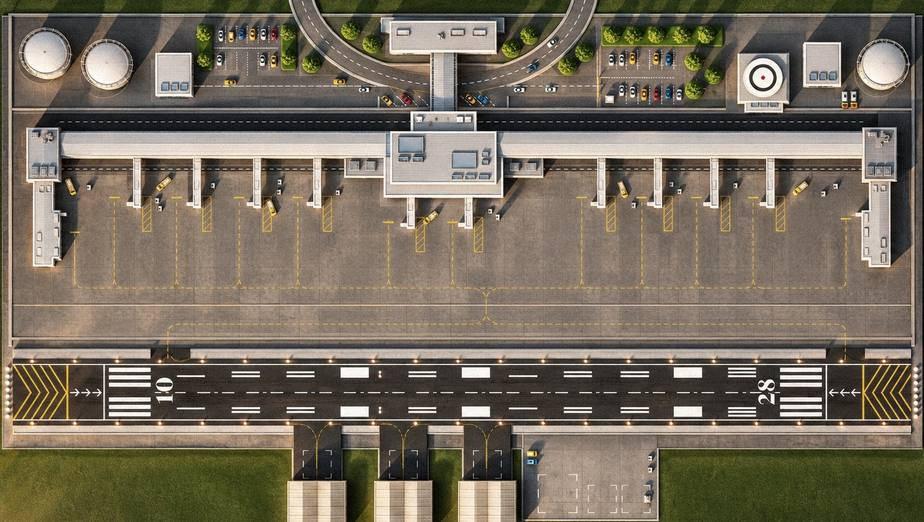
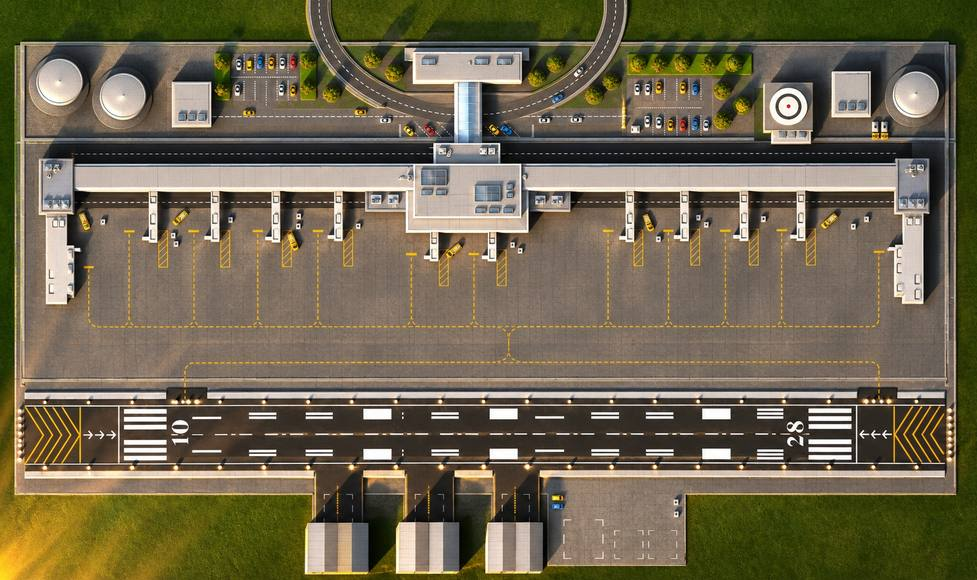
Galeão com as artes refeitas, sem nenhuma alteração no desenho
Claude-Session: https://claude.ai/code/session_01Y22HSWpi8bJjkUpXL6Y8uJ

diff --git a/lite.html b/lite.html
@@ -31,7 +31,7 @@ button:focus-visible{outline:2px solid var(--y);outline-offset:2px}
 .zreset{position:absolute;left:10px;top:10px;z-index:12;display:flex;align-items:center;gap:6px;background:var(--k);border:1px solid var(--y);color:var(--y);font-weight:800;font-size:12px;border-radius:18px;padding:6px 12px;min-height:36px}
 .zreset[hidden]{display:none}
 .zhint{position:absolute;left:50%;top:45%;transform:translate(-50%,-50%);font-weight:700;z-index:12;background:rgba(0,0,0,.7);color:var(--g);font-size:11px;border-radius:12px;padding:4px 10px;pointer-events:none;transition:opacity .6s}
-.map{position:absolute;left:0;top:0;transform-origin:0 0;background:url(lite_map.jpg?v=20261124f) center/100% 100% no-repeat;overflow:hidden;will-change:transform}
+.map{position:absolute;left:0;top:0;transform-origin:0 0;background:url(lite_map.jpg?v=20261124g) center/100% 100% no-repeat;overflow:hidden;will-change:transform}
 
 /* aviões */
 .pl{position:absolute;transform:translate(-50%,-50%);pointer-events:none;will-change:left,top}
@@ -184,23 +184,23 @@ body.rot .map{background:none}
 body.rot .sky{display:none}
 body.rot .sign,body.rot .rwy{transform:translate(-50%,-50%) rotate(90deg)}
 body.land .mobileBar{top:50%;transform:translateY(-50%)}
-#bgH{position:absolute;left:0;top:0;transform-origin:0 0;background:url(lite_maph.jpg?v=20261124f) center/100% 100% no-repeat;display:none;pointer-events:none}
+#bgH{position:absolute;left:0;top:0;transform-origin:0 0;background:url(lite_maph.jpg?v=20261124g) center/100% 100% no-repeat;display:none;pointer-events:none}
 #bgH i{position:absolute;top:0;right:0;bottom:0;left:0;opacity:0;background:center/100% 100% no-repeat}
-#skyTh{background-image:url(lite_maph.jpg?v=20261124f)!important}#skyNh{background-image:url(lite_maph_noite.jpg?v=20261124f)!important}
+#skyTh{background-image:url(lite_maph.jpg?v=20261124g)!important}#skyNh{background-image:url(lite_maph_noite.jpg?v=20261124g)!important}
 body.rot #bgH{display:block}
-body.l2 #bgH{background-image:url(maph2_dia.jpg?v=20261124f)}body.l2 #skyTh{background-image:url(maph2_tarde.jpg?v=20261124f)!important}body.l2 #skyNh{background-image:url(maph2_noite.jpg?v=20261124f)!important}
-body.l3 #bgH{background-image:url(maph3_dia.jpg?v=20261124f)}body.l3 #skyTh{background-image:url(maph3_tarde.jpg?v=20261124f)!important}body.l3 #skyNh{background-image:url(maph3_noite.jpg?v=20261124f)!important}
-body.rot.l2 .stage::before{background-image:url(maph2_dia.jpg?v=20261124f)}body.rot.l3 .stage::before{background-image:url(maph3_dia.jpg?v=20261124f)}
+body.l2 #bgH{background-image:url(maph2_dia.jpg?v=20261124g)}body.l2 #skyTh{background-image:url(maph2_tarde.jpg?v=20261124g)!important}body.l2 #skyNh{background-image:url(maph2_noite.jpg?v=20261124g)!important}
+body.l3 #bgH{background-image:url(maph3_dia.jpg?v=20261124g)}body.l3 #skyTh{background-image:url(maph3_tarde.jpg?v=20261124g)!important}body.l3 #skyNh{background-image:url(maph3_noite.jpg?v=20261124g)!important}
+body.rot.l2 .stage::before{background-image:url(maph2_dia.jpg?v=20261124g)}body.rot.l3 .stage::before{background-image:url(maph3_dia.jpg?v=20261124g)}
 body.land .rail{top:84px}
 
 @media(max-height:520px){body.land .mobileBar{gap:4px}body.land .mobileBar .tab,body.land .mobileBar .mb{width:40px;height:40px;border-radius:9px}body.land .mobileBar .tab .ico,body.land .mobileBar .mb .ico{width:24px;height:24px}body.land .mobileBar .mb.clockb .clock{font-size:11px}body.land .mobileBar .mb.clockb small{display:none}body.land .rail{top:70px}}
 
 .sky{position:absolute;top:0;right:0;bottom:0;left:0;background:center/100% 100% no-repeat;opacity:0;pointer-events:none}
-#skyT{background-image:url(lite_map.jpg?v=20261124f)}#skyN{background-image:url(lite_map_noite.jpg?v=20261124f)}
-body.l2 .map{background-image:url(lite_map2.jpg?v=20261124f)}body.l2 #skyT{background-image:url(lite_map2.jpg?v=20261124f)}body.l2 #skyN{background-image:url(lite_map2_noite.jpg?v=20261124f)}
-body.l2 .stage::before{background-image:url(lite_map2.jpg?v=20261124f)}
-body.l3 .map{background-image:url(lite_map3.jpg?v=20261124f)}body.l3 #skyT{background-image:url(lite_map3.jpg?v=20261124f)}body.l3 #skyN{background-image:url(lite_map3_noite.jpg?v=20261124f)}
-body.l3 .stage::before{background-image:url(lite_map3.jpg?v=20261124f)}body.l3 #glow{display:none}
+#skyT{background-image:url(lite_map.jpg?v=20261124g)}#skyN{background-image:url(lite_map_noite.jpg?v=20261124g)}
+body.l2 .map{background-image:url(lite_map2.jpg?v=20261124g)}body.l2 #skyT{background-image:url(lite_map2.jpg?v=20261124g)}body.l2 #skyN{background-image:url(lite_map2_noite.jpg?v=20261124g)}
+body.l2 .stage::before{background-image:url(lite_map2.jpg?v=20261124g)}
+body.l3 .map{background-image:url(lite_map3.jpg?v=20261124g)}body.l3 #skyT{background-image:url(lite_map3.jpg?v=20261124g)}body.l3 #skyN{background-image:url(lite_map3_noite.jpg?v=20261124g)}
+body.l3 .stage::before{background-image:url(lite_map3.jpg?v=20261124g)}body.l3 #glow{display:none}
 .dl.apt .dl-r{font-size:13px;color:#bbb}.dl-go{margin-top:8px}
 #glow{position:absolute;top:0;right:0;bottom:0;left:0;background:url(glow1.png) center/100% 100% no-repeat;opacity:var(--nt,.2);pointer-events:none;mix-blend-mode:screen;z-index:1}
 body.l2 #glow{background-image:url(glow2.png)}#glow{display:none!important}body.rot #glow{display:none}
@@ -523,8 +523,8 @@ body.neo .aq-t:empty{background:#1d1e21;box-shadow:inset 3px 3px 6px rgba(0,0,0,
   .toast{position:fixed;top:auto;bottom:18px;max-width:calc(100% - 150px);left:calc(50% - 30px)}
 }
 @media(prefers-reduced-motion:reduce){.sign.ok .plate{animation:none!important}}
-.stage::before{content:"";position:absolute;top:-40px;right:-40px;bottom:-40px;left:-40px;background:url(lite_map.jpg?v=20261124f) center/cover no-repeat;filter:blur(22px) brightness(.75)}
-body.rot .stage::before{background-image:url(lite_maph.jpg?v=20261124f)}
+.stage::before{content:"";position:absolute;top:-40px;right:-40px;bottom:-40px;left:-40px;background:url(lite_map.jpg?v=20261124g) center/cover no-repeat;filter:blur(22px) brightness(.75)}
+body.rot .stage::before{background-image:url(lite_maph.jpg?v=20261124g)}
 /* capa: compatível com Safari antigo (sem gap em flex, altura explícita) */
 .cover{height:100vh;height:100dvh;grid-template-rows:auto minmax(0,1fr) auto}
 .signs>*+*{margin-top:8px}.sgn>*+*{margin-left:12px}.cv-act>*+*{margin-top:8px}
@@ -889,7 +889,7 @@ if(!window.PointerEvent){(function(){
 })()}
 </script>
 <script>
-var APPV='1795558043';
+var APPV='1795558589';
 (function(){function chk(){try{fetch('version.txt?t='+Date.now(),{cache:'no-store'}).then(function(r){return r.ok?r.text():''}).then(function(v){v=(v||'').trim();if(v&&v!==APPV){var k='departure_reload_'+v;if(!sessionStorage.getItem(k)){sessionStorage.setItem(k,'1');location.replace(location.pathname+'?v='+v)}}}).catch(function(){})}catch(e){}}
 chk();document.addEventListener('visibilitychange',function(){if(!document.hidden)chk()});})();
 </script>
@@ -1009,9 +1009,9 @@ var TH={"10":60,"28":1590};
 // layouts: 1 = Galeão original (1 pista), 2 = expansão (2 pistas, Terminal 1 e 2)
 var CN2=[224,584,1197,1595,1920];
 var LAYS={
- 1:{id:1,W:870,H:1540,ps:1.25,cover:1,G:[{id:'A',rx:217,twy:330,lane:385,sg:1,conn:[265,805,1410],entry:null,th:{"10":170,"28":1377},nm:{"10":"10","28":"28"},lt:[173,10,10],reil:[163,271],lbx:115,ap:{"10":[4,14],"28":[1524,1534]},edge:[171,263]}],
+ 1:{id:1,W:966,H:1628,ps:1.25,cover:1,G:[{id:'A',rx:243,twy:357,lane:420,sg:1,conn:[307,848,1460],entry:null,th:{"10":200,"28":1428},nm:{"10":"10","28":"28"},lt:[198,10,10],reil:[186,300],lbx:120,ap:{"10":[6,18],"28":[1600,1612]},edge:[195,290]}],
    labels:[],
-   mk:()=>[[229,5],[330,5],[430,5],[530,5],[686,6],[782,6],[1004,5],[1098,5],[1192,5],[1286,5]].map(([y,m],i)=>({n:i+1,x:i===4||i===5?488:523,y,max:m,bd:1,g:'A',sx:635,sy:y}))},
+   mk:()=>[[255,5],[358,5],[460,5],[564,5],[725,6],[822,6],[1049,5],[1140,5],[1239,5],[1334,5]].map(([y,m],i)=>({n:i+1,x:i===4||i===5?530:563,y,max:m,bd:1,g:'A',sx:672,sy:y}))},
  2:{id:2,W:941,H:1672,ps:1.35,G:[
    {id:'A',rx:84,twy:355,lane:397,sg:1,conn:[255,256,1399,1400],entry:null,th:{"10":168,"28":1489},nm:{"10":"10L","28":"28R"},lt:[58,6.5,9],reil:[50,118],lbx:30,ap:{"10":[100,117,134,151],"28":[1505,1520,1535,1550,1565]},edge:[57,111]},
    {id:'B',rx:266,twy:355,lane:397,sg:1,conn:[240,480,838,1248,1500],entry:null,th:{"10":93,"28":1489},nm:{"10":"10R","28":"28L"},lt:[234,8,9],reil:[226,306],lbx:325,ap:{"10":[25,42,59,76],"28":[1505,1520,1535,1550,1565]},edge:[233,299]}],
@@ -1219,7 +1219,7 @@ var DIFFS={
 var DIFF="normal",camp={day:1,stars:0,rep:70,money:0},storms=[],dayOver=false;
 var D=()=>DIFFS[DIFF];
 var START_MONEY={facil:400000,normal:250000,dificil:150000};
-var newCamp=()=>({lay1v:4,day:1,stars:0,rep:70,money:START_MONEY[DIFF]||250000,deals:[],crews:DIFF==='facil'?undefined:{fuel:2,cat:2,clean:2}});
+var newCamp=()=>({lay1v:5,day:1,stars:0,rep:70,money:START_MONEY[DIFF]||250000,deals:[],crews:DIFF==='facil'?undefined:{fuel:2,cat:2,clean:2}});
 var flights,now,speed=10,tab="arr",sel=null,assignFor=null,runwayFree,score,lastWind=-1;
 var $=id=>document.getElementById(id);
 var map=$('map'),fixed=$('fixed'),planesEl=$('planes'),board=$('board'),detail=$('detail'),side=$('side'),cards=$('cards');
@@ -2777,7 +2777,7 @@ function loadGame(d){
   ROT=d.ROT;flights=d.flights;now=d.now;buildLines();runwayFree=typeof d.runwayFree==='object'&&d.runwayFree?d.runwayFree:{A:0,B:0};score=d.score;
   setLayout(camp.lay||1);STANDS.forEach((x,i)=>x.res=d.stands[i]==null?null:d.stands[i]);
   if(camp.lay===2&&camp.layv!==2){camp.layv=2;migrateLay();runwayFree={A:0,B:0}}
-  if((camp.lay||1)===1&&camp.lay1v!==4){camp.lay1v=4;migrateLay();runwayFree={A:0,B:0}}
+  if((camp.lay||1)===1&&camp.lay1v!==5){camp.lay1v=5;migrateLay();runwayFree={A:0,B:0}}
   flights.forEach(f=>{if(f.svs)f.svs.forEach(v=>{if(v.q==null)v.q=true})});
   speed=nz(d.speed,10);if(speed)rescalePaths(pathK(speed));document.querySelectorAll('#speed button[data-s]').forEach(x=>x.classList.toggle('on',+x.dataset.s===speed));
   $('spdLbl').textContent=speed?speed+'×':'pausa';

diff --git a/index.html b/index.html
@@ -31,7 +31,7 @@ button:focus-visible{outline:2px solid var(--y);outline-offset:2px}
 .zreset{position:absolute;left:10px;top:10px;z-index:12;display:flex;align-items:center;gap:6px;background:var(--k);border:1px solid var(--y);color:var(--y);font-weight:800;font-size:12px;border-radius:18px;padding:6px 12px;min-height:36px}
 .zreset[hidden]{display:none}
 .zhint{position:absolute;left:50%;top:45%;transform:translate(-50%,-50%);font-weight:700;z-index:12;background:rgba(0,0,0,.7);color:var(--g);font-size:11px;border-radius:12px;padding:4px 10px;pointer-events:none;transition:opacity .6s}
-.map{position:absolute;left:0;top:0;transform-origin:0 0;background:url(map.jpg?v=20261124f) center/100% 100% no-repeat;overflow:hidden;will-change:transform}
+.map{position:absolute;left:0;top:0;transform-origin:0 0;background:url(map.jpg?v=20261124g) center/100% 100% no-repeat;overflow:hidden;will-change:transform}
 
 /* aviões */
 .pl{position:absolute;transform:translate(-50%,-50%);pointer-events:none;will-change:left,top}
@@ -184,23 +184,23 @@ body.rot .map{background:none}
 body.rot .sky{display:none}
 body.rot .sign,body.rot .rwy{transform:translate(-50%,-50%) rotate(90deg)}
 body.land .mobileBar{top:50%;transform:translateY(-50%)}
-#bgH{position:absolute;left:0;top:0;transform-origin:0 0;background:url(maph_dia.jpg?v=20261124f) center/100% 100% no-repeat;display:none;pointer-events:none}
+#bgH{position:absolute;left:0;top:0;transform-origin:0 0;background:url(maph_dia.jpg?v=20261124g) center/100% 100% no-repeat;display:none;pointer-events:none}
 #bgH i{position:absolute;top:0;right:0;bottom:0;left:0;opacity:0;background:center/100% 100% no-repeat}
-#skyTh{background-image:url(maph_tarde.jpg?v=20261124f)!important}#skyNh{background-image:url(maph_noite.jpg?v=20261124f)!important}
+#skyTh{background-image:url(maph_tarde.jpg?v=20261124g)!important}#skyNh{background-image:url(maph_noite.jpg?v=20261124g)!important}
 body.rot #bgH{display:block}
-body.l2 #bgH{background-image:url(maph2_dia.jpg?v=20261124f)}body.l2 #skyTh{background-image:url(maph2_tarde.jpg?v=20261124f)!important}body.l2 #skyNh{background-image:url(maph2_noite.jpg?v=20261124f)!important}
-body.l3 #bgH{background-image:url(maph3_dia.jpg?v=20261124f)}body.l3 #skyTh{background-image:url(maph3_tarde.jpg?v=20261124f)!important}body.l3 #skyNh{background-image:url(maph3_noite.jpg?v=20261124f)!important}
-body.rot.l2 .stage::before{background-image:url(maph2_dia.jpg?v=20261124f)}body.rot.l3 .stage::before{background-image:url(maph3_dia.jpg?v=20261124f)}
+body.l2 #bgH{background-image:url(maph2_dia.jpg?v=20261124g)}body.l2 #skyTh{background-image:url(maph2_tarde.jpg?v=20261124g)!important}body.l2 #skyNh{background-image:url(maph2_noite.jpg?v=20261124g)!important}
+body.l3 #bgH{background-image:url(maph3_dia.jpg?v=20261124g)}body.l3 #skyTh{background-image:url(maph3_tarde.jpg?v=20261124g)!important}body.l3 #skyNh{background-image:url(maph3_noite.jpg?v=20261124g)!important}
+body.rot.l2 .stage::before{background-image:url(maph2_dia.jpg?v=20261124g)}body.rot.l3 .stage::before{background-image:url(maph3_dia.jpg?v=20261124g)}
 body.land .rail{top:84px}
 
 @media(max-height:520px){body.land .mobileBar{gap:4px}body.land .mobileBar .tab,body.land .mobileBar .mb{width:40px;height:40px;border-radius:9px}body.land .mobileBar .tab .ico,body.land .mobileBar .mb .ico{width:24px;height:24px}body.land .mobileBar .mb.clockb .clock{font-size:11px}body.land .mobileBar .mb.clockb small{display:none}body.land .rail{top:70px}}
 
 .sky{position:absolute;top:0;right:0;bottom:0;left:0;background:center/100% 100% no-repeat;opacity:0;pointer-events:none}
-#skyT{background-image:url(map_tarde.jpg?v=20261124f)}#skyN{background-image:url(map_noite.jpg?v=20261124f)}
-body.l2 .map{background-image:url(map2_dia.jpg?v=20261124f)}body.l2 #skyT{background-image:url(map2_tarde.jpg?v=20261124f)}body.l2 #skyN{background-image:url(map2_noite.jpg?v=20261124f)}
-body.l2 .stage::before{background-image:url(map2_dia.jpg?v=20261124f)}
-body.l3 .map{background-image:url(map3_dia.jpg?v=20261124f)}body.l3 #skyT{background-image:url(map3_tarde.jpg?v=20261124f)}body.l3 #skyN{background-image:url(map3_noite.jpg?v=20261124f)}
-body.l3 .stage::before{background-image:url(map3_dia.jpg?v=20261124f)}body.l3 #glow{display:none}
+#skyT{background-image:url(map_tarde.jpg?v=20261124g)}#skyN{background-image:url(map_noite.jpg?v=20261124g)}
+body.l2 .map{background-image:url(map2_dia.jpg?v=20261124g)}body.l2 #skyT{background-image:url(map2_tarde.jpg?v=20261124g)}body.l2 #skyN{background-image:url(map2_noite.jpg?v=20261124g)}
+body.l2 .stage::before{background-image:url(map2_dia.jpg?v=20261124g)}
+body.l3 .map{background-image:url(map3_dia.jpg?v=20261124g)}body.l3 #skyT{background-image:url(map3_tarde.jpg?v=20261124g)}body.l3 #skyN{background-image:url(map3_noite.jpg?v=20261124g)}
+body.l3 .stage::before{background-image:url(map3_dia.jpg?v=20261124g)}body.l3 #glow{display:none}
 .dl.apt .dl-r{font-size:13px;color:#bbb}.dl-go{margin-top:8px}
 #glow{position:absolute;top:0;right:0;bottom:0;left:0;background:url(glow1.png) center/100% 100% no-repeat;opacity:var(--nt,.2);pointer-events:none;mix-blend-mode:screen;z-index:1}
 body.l2 #glow{background-image:url(glow2.png)}#glow{display:none!important}body.rot #glow{display:none}
@@ -523,8 +523,8 @@ body.neo .aq-t:empty{background:#1d1e21;box-shadow:inset 3px 3px 6px rgba(0,0,0,
   .toast{position:fixed;top:auto;bottom:18px;max-width:calc(100% - 150px);left:calc(50% - 30px)}
 }
 @media(prefers-reduced-motion:reduce){.sign.ok .plate{animation:none!important}}
-.stage::before{content:"";position:absolute;top:-40px;right:-40px;bottom:-40px;left:-40px;background:url(map.jpg?v=20261124f) center/cover no-repeat;filter:blur(22px) brightness(.75)}
-body.rot .stage::before{background-image:url(maph_dia.jpg?v=20261124f)}
+.stage::before{content:"";position:absolute;top:-40px;right:-40px;bottom:-40px;left:-40px;background:url(map.jpg?v=20261124g) center/cover no-repeat;filter:blur(22px) brightness(.75)}
+body.rot .stage::before{background-image:url(maph_dia.jpg?v=20261124g)}
 /* capa: compatível com Safari antigo (sem gap em flex, altura explícita) */
 .cover{height:100vh;height:100dvh;grid-template-rows:auto minmax(0,1fr) auto}
 .signs>*+*{margin-top:8px}.sgn>*+*{margin-left:12px}.cv-act>*+*{margin-top:8px}
@@ -880,7 +880,7 @@ if(!window.PointerEvent){(function(){
 })()}
 </script>
 <script>
-var APPV='1795558043';
+var APPV='1795558589';
 (function(){function chk(){try{fetch('version.txt?t='+Date.now(),{cache:'no-store'}).then(function(r){return r.ok?r.text():''}).then(function(v){v=(v||'').trim();if(v&&v!==APPV){var k='departure_reload_'+v;if(!sessionStorage.getItem(k)){sessionStorage.setItem(k,'1');location.replace(location.pathname+'?v='+v)}}}).catch(function(){})}catch(e){}}
 chk();document.addEventListener('visibilitychange',function(){if(!document.hidden)chk()});})();
 </script>
@@ -999,9 +999,9 @@ var TH={"10":60,"28":1590};
 // layouts: 1 = Galeão original (1 pista), 2 = expansão (2 pistas, Terminal 1 e 2)
 var CN2=[224,584,1197,1595,1920];
 var LAYS={
- 1:{id:1,W:870,H:1540,ps:1.25,cover:1,G:[{id:'A',rx:217,twy:330,lane:385,sg:1,conn:[265,805,1410],entry:null,th:{"10":170,"28":1377},nm:{"10":"10","28":"28"},lt:[173,10,10],reil:[163,271],lbx:115,ap:{"10":[4,14],"28":[1524,1534]},edge:[171,263]}],
+ 1:{id:1,W:966,H:1628,ps:1.25,cover:1,G:[{id:'A',rx:243,twy:357,lane:420,sg:1,conn:[307,848,1460],entry:null,th:{"10":200,"28":1428},nm:{"10":"10","28":"28"},lt:[198,10,10],reil:[186,300],lbx:120,ap:{"10":[6,18],"28":[1600,1612]},edge:[195,290]}],
    labels:[],
-   mk:()=>[[229,5],[330,5],[430,5],[530,5],[686,6],[782,6],[1004,5],[1098,5],[1192,5],[1286,5]].map(([y,m],i)=>({n:i+1,x:i===4||i===5?488:523,y,max:m,bd:1,g:'A',sx:635,sy:y}))},
+   mk:()=>[[255,5],[358,5],[460,5],[564,5],[725,6],[822,6],[1049,5],[1140,5],[1239,5],[1334,5]].map(([y,m],i)=>({n:i+1,x:i===4||i===5?530:563,y,max:m,bd:1,g:'A',sx:672,sy:y}))},
  2:{id:2,W:941,H:1672,ps:1.35,G:[
    {id:'A',rx:84,twy:355,lane:397,sg:1,conn:[255,256,1399,1400],entry:null,th:{"10":168,"28":1489},nm:{"10":"10L","28":"28R"},lt:[58,6.5,9],reil:[50,118],lbx:30,ap:{"10":[100,117,134,151],"28":[1505,1520,1535,1550,1565]},edge:[57,111]},
    {id:'B',rx:266,twy:355,lane:397,sg:1,conn:[240,480,838,1248,1500],entry:null,th:{"10":93,"28":1489},nm:{"10":"10R","28":"28L"},lt:[234,8,9],reil:[226,306],lbx:325,ap:{"10":[25,42,59,76],"28":[1505,1520,1535,1550,1565]},edge:[233,299]}],
@@ -1209,7 +1209,7 @@ var DIFFS={
 var DIFF="normal",camp={day:1,stars:0,rep:70,money:0},storms=[],dayOver=false;
 var D=()=>DIFFS[DIFF];
 var START_MONEY={facil:400000,normal:250000,dificil:150000};
-var newCamp=()=>({lay1v:4,day:1,stars:0,rep:70,money:START_MONEY[DIFF]||250000,deals:[],crews:DIFF==='facil'?undefined:{fuel:2,cat:2,clean:2}});
+var newCamp=()=>({lay1v:5,day:1,stars:0,rep:70,money:START_MONEY[DIFF]||250000,deals:[],crews:DIFF==='facil'?undefined:{fuel:2,cat:2,clean:2}});
 var flights,now,speed=10,tab="arr",sel=null,assignFor=null,runwayFree,score,lastWind=-1;
 var $=id=>document.getElementById(id);
 var map=$('map'),fixed=$('fixed'),planesEl=$('planes'),board=$('board'),detail=$('detail'),side=$('side'),cards=$('cards');
@@ -2767,7 +2767,7 @@ function loadGame(d){
   ROT=d.ROT;flights=d.flights;now=d.now;buildLines();runwayFree=typeof d.runwayFree==='object'&&d.runwayFree?d.runwayFree:{A:0,B:0};score=d.score;
   setLayout(camp.lay||1);STANDS.forEach((x,i)=>x.res=d.stands[i]==null?null:d.stands[i]);
   if(camp.lay===2&&camp.layv!==2){camp.layv=2;migrateLay();runwayFree={A:0,B:0}}
-  if((camp.lay||1)===1&&camp.lay1v!==4){camp.lay1v=4;migrateLay();runwayFree={A:0,B:0}}
+  if((camp.lay||1)===1&&camp.lay1v!==5){camp.lay1v=5;migrateLay();runwayFree={A:0,B:0}}
   flights.forEach(f=>{if(f.svs)f.svs.forEach(v=>{if(v.q==null)v.q=true})});
   speed=nz(d.speed,10);if(speed)rescalePaths(pathK(speed));document.querySelectorAll('#speed button[data-s]').forEach(x=>x.classList.toggle('on',+x.dataset.s===speed));
   $('spdLbl').textContent=speed?speed+'×':'pausa';
